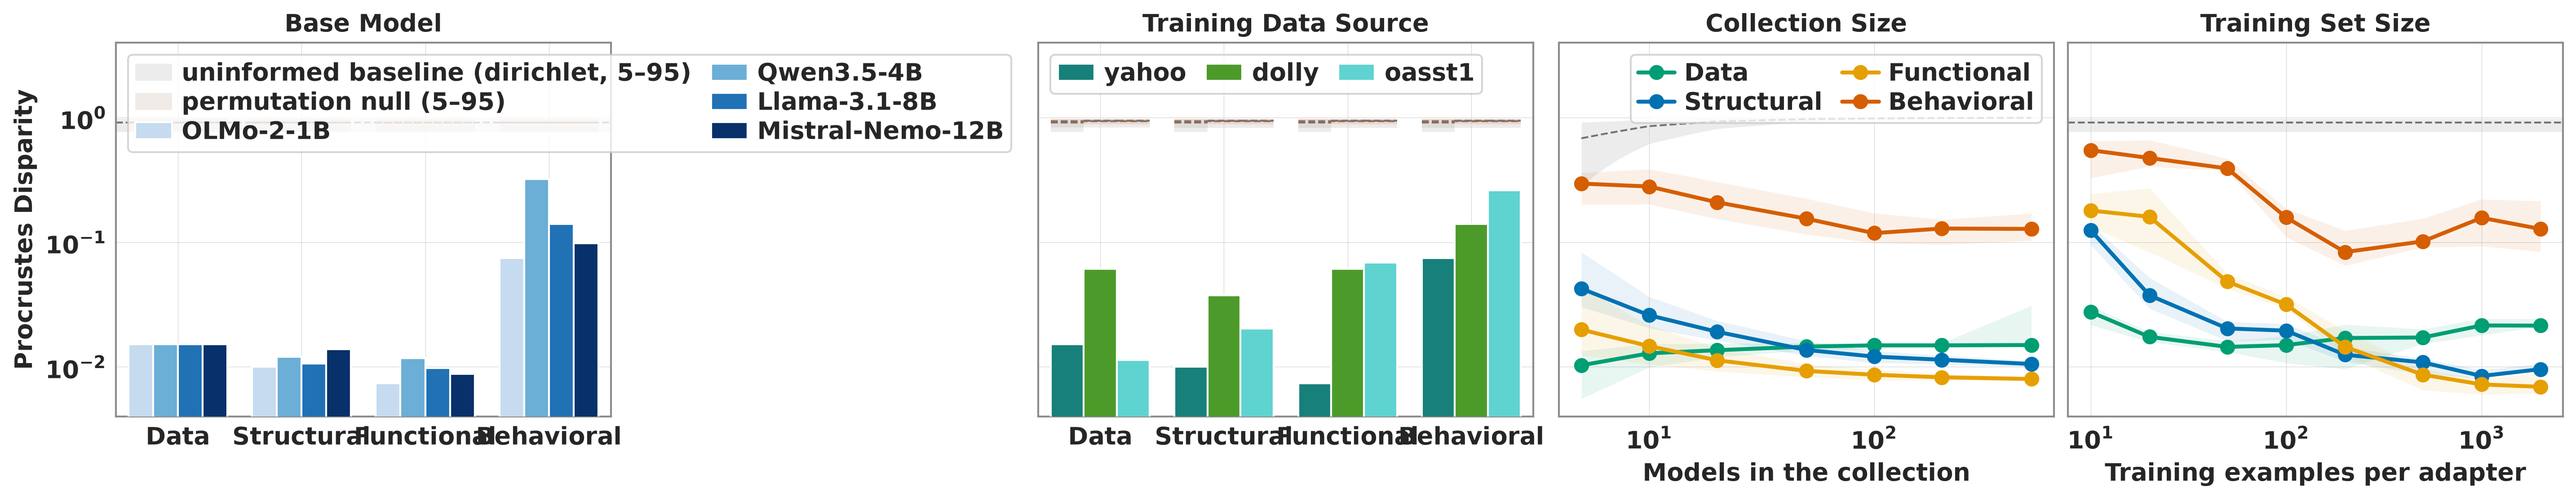
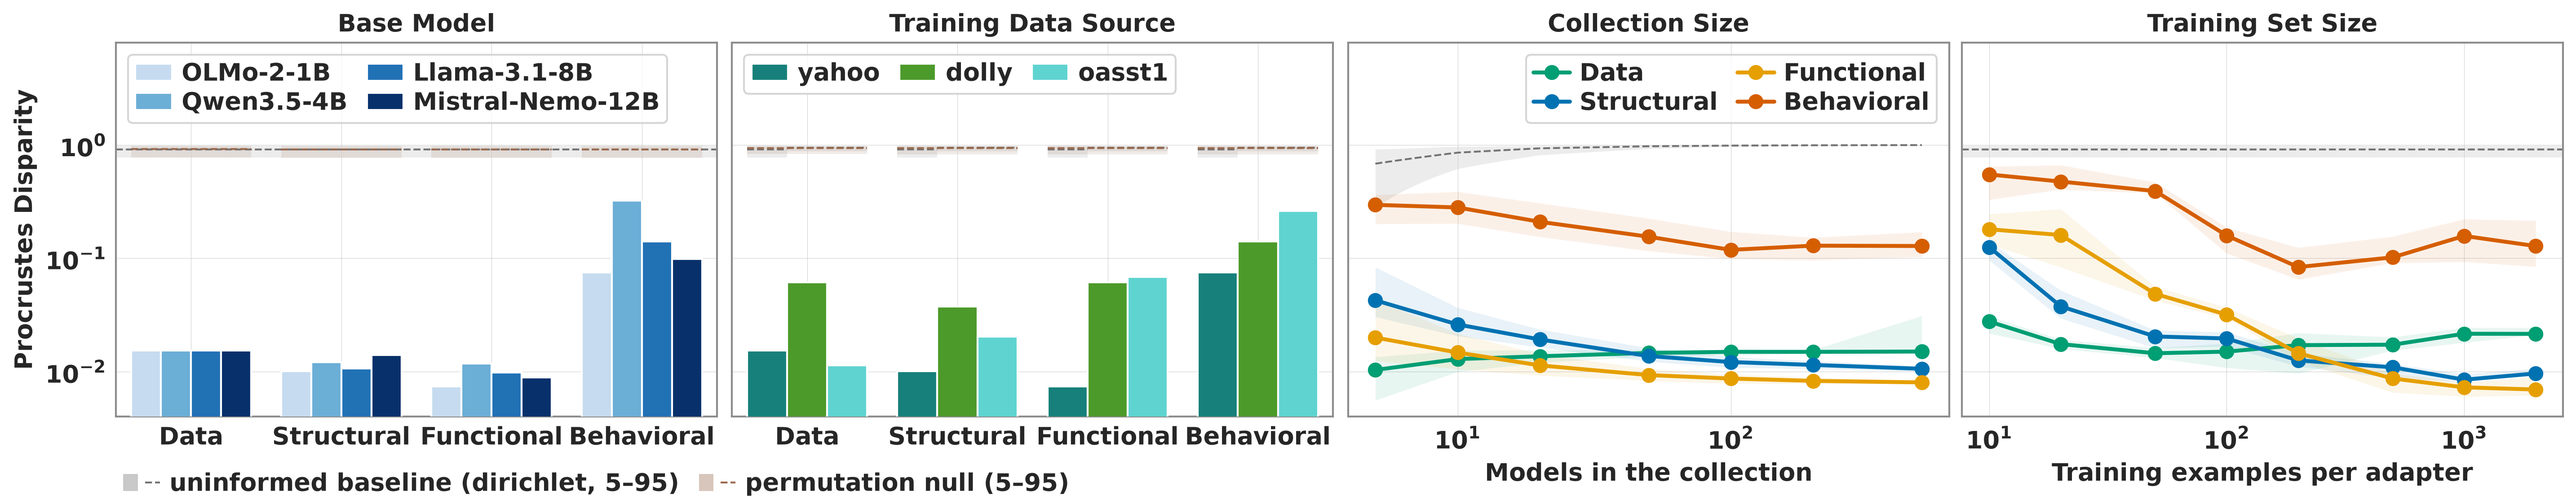
fix(figure2_v2): move the band keys out of the panel they describe
A bar panel's only free space is the strip above its tallest bar, which is
exactly where the two reference bands are drawn. Labelling the bands into
panel 1's legend therefore put the key on top of the thing it named -- and the
six-entry legend that resulted was wide enough that constrained_layout shrank
the whole bottom row, opening a gap between panels 2 and 3 that the original
figure does not have.

The bands are named once for the row instead, by proxy handles in a strip
beneath the two bar panels, and the series legends go back to naming only
their own series. YLIMS_BANDED's log top goes 4 -> 8, which is what measurably
clears a two-row legend; at 4 its lower edge still cut the permutation median
on three of panel 1's four level groups.

Also corrects _bar_legend_loc's docstring, which described a mid-panel
placement the function never performed.

Verified: the driver with no band flags still reproduces
figures/figure2/fig_figure2_bottom.png byte-identically (md5 9fbb43c9), and
122/122 synthetic checks pass.

Claude-Session: https://claude.ai/code/session_01C9bwa8vNkfztpKrAN5FzcJ

diff --git a/figures/figure2_v2/make_figures.py b/figures/figure2_v2/make_figures.py
@@ -153,6 +153,10 @@ import matplotlib  # noqa: E402
 matplotlib.use("Agg")
 import matplotlib.pyplot as plt  # noqa: E402
 import numpy as np  # noqa: E402
+from matplotlib.legend import Legend  # noqa: E402
+from matplotlib.legend_handler import HandlerTuple  # noqa: E402
+from matplotlib.lines import Line2D  # noqa: E402
+from matplotlib.patches import Patch  # noqa: E402
 
 from src.plots import make_series, plot_grouped_bars, save_figure, set_style  # noqa: E402
 from src.plots.config import bold_capable_family  # noqa: E402
@@ -165,7 +169,9 @@ from src.analysis.baselines import (band_quantiles,  # noqa: E402
                                     truth_singular_values, uninformed_band)
 from src.analysis.ground_truth import simplex_vertices  # noqa: E402
 from src.experiments.data_simplex_spec import SPECS  # noqa: E402
-from src.plots.figures import (draw_permutation_band,  # noqa: E402
+from src.plots.figures import (PERMUTATION_COLOUR, PERMUTATION_LABEL,  # noqa: E402
+                               UNINFORMED_COLOUR, UNINFORMED_LABEL,
+                               draw_permutation_band,
                                draw_uninformed_band, load_baseline_table)
 
 FIGURES_ROOT = REPO_ROOT / "figures"
@@ -703,19 +709,54 @@ class Bands:
         self._drew_permutation = False
 
     # -- one legend entry each ------------------------------------------------
+    #
+    # The bands are never labelled *into a panel legend*. A bar panel's only
+    # free space is the strip above its tallest bar, which is exactly where the
+    # bands are, so a legend large enough to name them lands on top of them --
+    # and widening the y axis far enough to seat a six-entry legend above a
+    # band at 0.98 would compress the decade the bars actually live in. The
+    # panel legends therefore keep naming only their own series, and the bands
+    # are named once for the whole row by ``legend_handles`` below.
     def _u(self, ax, **kw):
         if self.generator is None:
             return
-        draw_uninformed_band(ax, generator=self.generator,
-                             label=not self._drew_uninformed, **kw)
+        draw_uninformed_band(ax, generator=self.generator, label=False, **kw)
         self._drew_uninformed = True
 
     def _p(self, ax, band, **kw):
         if band is None:
             return
-        draw_permutation_band(ax, band=band,
-                              label=not self._drew_permutation, **kw)
+        draw_permutation_band(ax, band=band, label=False, **kw)
         self._drew_permutation = True
+
+    def legend_handles(self) -> tuple[list, list[str]]:
+        """Proxy handles for whichever bands were actually drawn.
+
+        Proxies rather than the real artists because a band is drawn many times
+        -- once per level group, or once per bar -- and every copy is the same
+        level. Each handle pairs the shaded interval with the dashed median the
+        band draws, so the legend key looks like the thing it names.
+        """
+        handles: list = []
+        labels: list[str] = []
+        pairs = [
+            (self._drew_uninformed, UNINFORMED_COLOUR,
+             UNINFORMED_LABEL.format(generator=self.generator)),
+            (self._drew_permutation, PERMUTATION_COLOUR, PERMUTATION_LABEL),
+        ]
+        for drew, colour, text in pairs:
+            if not drew:
+                continue
+            handles.append((
+                # Darker than the band itself (0.13). The band is faint by
+                # design -- it is a backdrop -- but a key is a tenth the size
+                # of the thing it names, and at 0.13 over a legend-sized patch
+                # it reads as an empty box.
+                Patch(facecolor=colour, alpha=0.38, linewidth=0),
+                Line2D([], [], color=colour, ls="--", lw=1.0),
+            ))
+            labels.append(text)
+        return handles, labels
 
     # -- the bar panels -------------------------------------------------------
     def uninformed_whole(self, ax, spec_name: str) -> None:
@@ -802,15 +843,22 @@ class Bands:
 
 
 def _bar_legend_loc(bands: Bands | None) -> str:
-    """Where a bar panel's legend goes, given whether bands are drawn.
+    """Where a bar panel's series legend goes. Always ``upper left``.
 
-    Without bands the top of the panel is empty and ``upper left`` is the right
-    answer. With them it is the *worst* answer: both reference levels sit near
-    0.9 on a disparity axis whose bars top out around 0.3, so an upper-left
-    legend lands exactly on the thing it was added to show. The mid-panel gap
-    between the tallest bar and the bands is empty in every configuration this
-    figure draws, so the legend moves there instead.
+    Kept as a function because the answer was contested. Both reference levels
+    sit near 0.9 on an axis whose bars top out near 0.3, so an upper-left
+    legend risks landing on the very thing the bands were added to show. Two
+    other placements were tried and are worse: a bar panel on a log axis has no
+    free space *below* a bar -- bars are drawn from the axis floor, so every
+    lower placement is on top of data -- and the mid-panel gap between the
+    tallest bar and the bands is too short to seat two rows.
+
+    What resolves it instead is headroom plus eviction: ``YLIMS_BANDED`` lifts
+    the log top to 8, and the band keys move out of the panel entirely (see
+    :func:`draw_band_legend`). That leaves the series legend four entries in
+    two rows, which clears the bands, so the placement never has to change.
     """
+    del bands  # kept in the signature for callers; the answer no longer varies
     return "upper left"
 
 
@@ -971,17 +1019,54 @@ YLIMS = {"log": (4e-3, 1.2), "linear": (0.0, 1.0)}
 
 #: The same ranges with headroom above the reference levels.
 #:
-#: Both bands sit near 0.9 on this score, and the plain ranges stop just above
-#: it — so with bands drawn there is nowhere for a legend to go that is not
-#: either on the bands or on the bars. Widening the top is what buys the room,
-#: and it costs nothing a reader needs: the axis is a disparity, the region
-#: above 1 is unreachable, and the extra decade is empty by construction.
-YLIMS_BANDED = {"log": (4e-3, 4.0), "linear": (0.0, 1.25)}
+#: Both bands sit near 0.9 on this score and the plain range stops just above
+#: it, so with bands drawn a bar panel's series legend has nowhere to go that
+#: is not on the bands or on the bars. Widening the top buys that room, and it
+#: costs a reader nothing: the axis is a disparity, everything above 1 is
+#: unreachable, and the added space is empty by construction. 8 rather than a
+#: smaller number because it is what measurably clears a two-row legend — at 4
+#: the legend's lower edge still cut the permutation median.
+YLIMS_BANDED = {"log": (4e-3, 8.0), "linear": (0.0, 1.25)}
 
 
 def ylim_for(yscale: str, bands: "Bands | None") -> tuple[float, float]:
     """The shared y range, widened when reference levels are drawn."""
     return (YLIMS_BANDED if bands is not None else YLIMS)[yscale]
+
+
+#: How far below a bar panel's x axis the band legend sits, in axes-height
+#: units. Enough to clear the tick labels -- the four taxonomy names -- and no
+#: more, so the strip reads as belonging to the row above it.
+BAND_LEGEND_DROP = -0.13
+
+
+def draw_band_legend(ax, bands: "Bands") -> None:
+    """Name the reference bands once, in a strip beneath the two bar panels.
+
+    Not inside a panel, and not once per panel. A band is a *level* rather than
+    a series: it is the same level on all four panels, so naming it four times
+    would say there are four of them, and naming it inside a bar panel would
+    put the key on top of the band, which is the only free space a bar panel
+    has. Anchoring it to panel 1 and letting two columns run rightwards puts it
+    under panels 1 and 2, in the margin the row already owns.
+
+    Attached with ``add_artist`` rather than ``ax.legend`` so that panel 1 keeps
+    the series legend it already has -- ``ax.legend`` would replace it.
+    """
+    handles, labels = bands.legend_handles()
+    if not handles:
+        return
+    legend = Legend(
+        ax, handles, labels,
+        loc="upper left", bbox_to_anchor=(0.0, BAND_LEGEND_DROP),
+        bbox_transform=ax.transAxes, ncol=len(handles),
+        frameon=False, borderaxespad=0.0,
+        # Both proxies are a shaded patch with the band's dashed median over
+        # it; ndivide=None overlays the pair in one key rather than shrinking
+        # them into two half-width keys side by side.
+        handler_map={tuple: HandlerTuple(ndivide=None)},
+    )
+    ax.add_artist(legend)
 
 
 def draw_bottom_row(fig, gs, bar_levels: list[Level],
@@ -1011,6 +1096,8 @@ def draw_bottom_row(fig, gs, bar_levels: list[Level],
         ax.tick_params(axis="x", rotation=0)
         for lbl in ax.get_xticklabels():
             lbl.set_ha("center")
+    if bands is not None:
+        draw_band_legend(axes[0], bands)
     return axes
 
 
@@ -1060,8 +1147,13 @@ def _embolden(fig) -> None:
         for lbl in ax.get_xticklabels() + ax.get_yticklabels():
             lbl.set_fontweight("bold")
             lbl.set_fontfamily(family)
-        legend = ax.get_legend()
-        if legend is not None:
+        # ``get_legend`` returns only the axes' *primary* legend. The band
+        # legend is attached as a plain artist so it does not displace the
+        # series legend beside it, so it has to be collected separately or it
+        # would be the one unbolded thing on the figure.
+        legends = [lg for lg in [ax.get_legend()] if lg is not None]
+        legends += [a for a in ax.artists if isinstance(a, Legend)]
+        for legend in legends:
             for txt in legend.get_texts():
                 txt.set_fontweight("bold")
                 txt.set_fontfamily(family)
